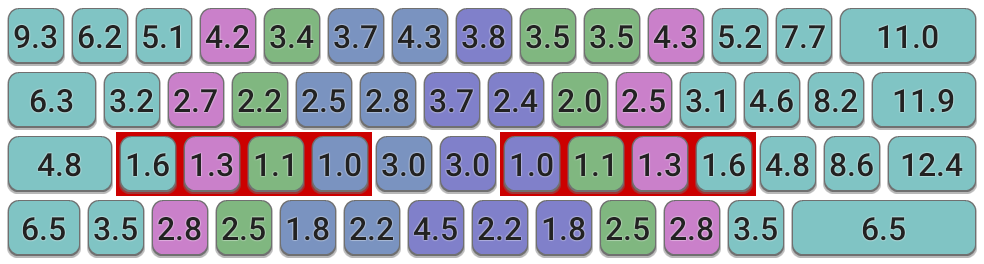
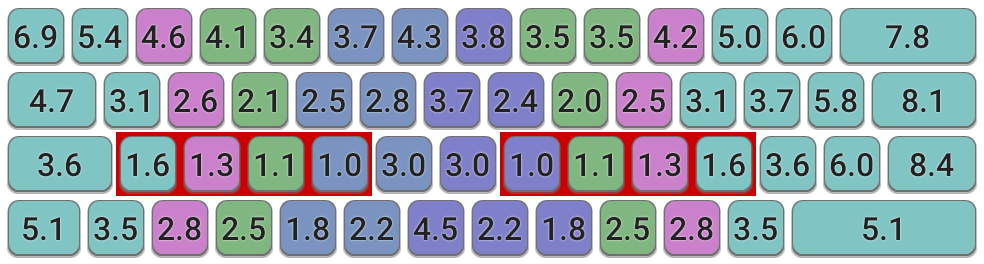
Adjustment and fixes to calculated algorithm to avoid lateral motion double penalty.

diff --git a/keyboard-effort-grid/index.html b/keyboard-effort-grid/index.html
@@ -137,7 +137,7 @@ To indentify keys by name, they are referred to by their Qwerty labels unless ex
 <p>Putting these observations together makes it possible to create a new model of keyboard effort grid for any arbitrary keyboard geometry, by calculating the effort values from base principles. In summary, the model works like this:</p>
 
 <ul>
-<li>the effort to type a key is deemed to be a combination of the mesial (x1) and lateral (x2) components of the distance from the home position.</li>
+<li>the effort to type a key is deemed to be a combination of the mesial and lateral components of the distance from the home position. The mesial component is finger-dependent, representing the finger curling action, whereas the lateral component requires the hand to move, and is more effort (x2).</li>
 <li>the distances are calculated based on the finger reaching the nearest point in the "activation area" rather than than the central point on a key.</li>
 <li>the home positions for each finger used in the calculation are informed by natural variation in finger length and the design of column-staggered keyboards.</li>
 <li>the finger used to type each key is not imposed on the model, but rather is determined automatically as the one which minimizes the effort function.</li>
@@ -145,7 +145,7 @@ To indentify keys by name, they are referred to by their Qwerty labels unless ex
 
 <p>The total effort value for each key, P<sub><i>total</i></sub>, is calculated with the formula:</p>
 <pre style="text-align:center">
-P<sub><i>total</i></sub> = (1.0 + P<sub><i>d</i></sub> (D<sub><i>mesial</i></sub> + 2 D<sub><i>lateral</i></sub>)) * P<sub><i>f</i></sub>
+P<sub><i>total</i></sub> = P<sub><i>f</i></sub> + P<sub><i>d</i></sub> (P<sub><i>f</i></sub> D<sub><i>mesial</i></sub> + 2 D<sub><i>lateral</i></sub>)
 </pre>
 
 <p>&nbsp;...where P<sub><i>d</i></sub> is a distance-based penalty constant, P<sub><i>f</i></sub> is the finger-based penalty, and D<sub><i>mesial</i></sub>, D<sub><i>lateral</i></sub> are the two components of the distance vector of the key's activation area from the home position.</p>
@@ -190,7 +190,7 @@ P<sub><i>total</i></sub> = (1.0 + P<sub><i>d</i></sub> (D<sub><i>mesial</i></sub
 <ul>
   <li>The top-row left hand positions (W, E, R) are penalised more strongly than the equivalents on the right, due to the wrong-way stagger of traditional keyboards on the left-hand side. However a consequence is that the T position is found to be significantly better than Y.</li>
   <li>The best non-home keys on the keyboard are still C and M, but the other bottom-row index-finger keys V and N perform better than expected too.</li>
-  <li>The calculated finger assigments suggest middle fingers should be used for keys 4,8,9, index fingers for 5,6,7.</li>
+  <li>The calculated finger assigments suggest middle fingers should be used for keys 3,4,8,9, index fingers for 5,6,7.</li>
   <li>Keys on the far-right of the keyboard are costly and should be avoided (e.g. by using mods like <a href="https://colemakmods.github.io/ergonomic-mods/extend.html">Extend</a>, <a href="https://colemakmods.github.io/ergonomic-mods/wide.html">Wide</a>, or both!)</li>  
 </ul>
 
@@ -232,9 +232,8 @@ P<sub><i>total</i></sub> = (1.0 + P<sub><i>d</i></sub> (D<sub><i>mesial</i></sub
 <ul>
   <li>The scoring pattern is broadly similar to the traditional keyboard, with most differences representing small improvements over the staggered keyboard design.</li>
   <li>Some keys, such as the bottom-row keys directly under index fingers' home, are even more favoured. However, the T position is notably worse.</li>
-  <li>The calculated finger assignments are in neat columns, as would be expected.</li>
+  <li>The calculated finger assignments are mostly in neat columns, however the model suggests using ring fingers for keys 1 and 0.</li>
 </ul>
-
 
 
       </section>
